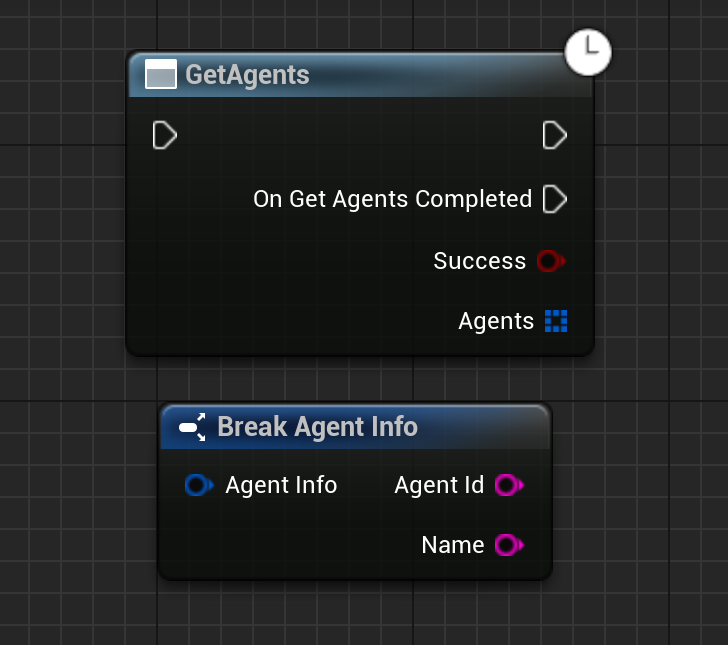
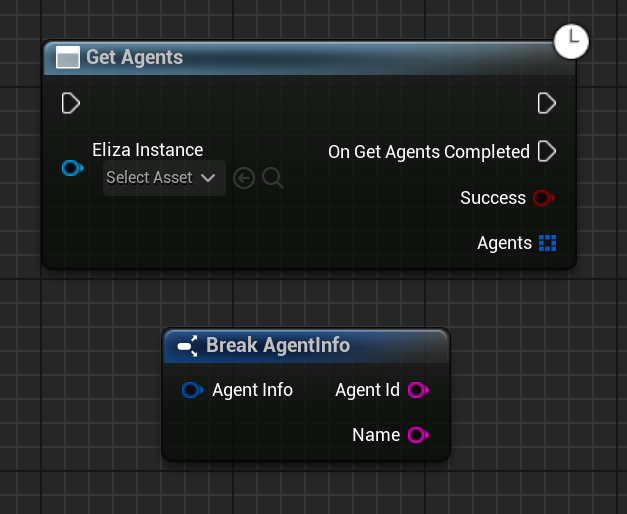
Updated methods to reference Eliza instances

diff --git a/APIs/GetAgentCharacter.md b/APIs/GetAgentCharacter.md
@@ -12,6 +12,7 @@ Given an AgentId, returns details about a the character that agent is representi
 | - | - | - |
 |Type|Name|Description|
 |FString|AgentId|The ID string of the agent to get the character data of.|
+|UElizaInstance\*|ElizaInstance|The Eliza instance to communicate with.|
 
 # Outputs
 
@@ -24,6 +25,6 @@ Given an AgentId, returns details about a the character that agent is representi
 Module: `Eliza`
 include: `#include "GetAgentCharacter.h"`
 
-`UGetAgentCharacter::GetAgentCharacter()` - instantiates this async method.
+`UGetAgentCharacter::GetAgentCharacter(FString AgentId, UElizaInstance* ElizaInstance)` - instantiates this async method.
 `Activate()` - Activates this async method.
 In C++, the outputs of the async function can be acted upon by binding to the event delegate "`OnGetAgentCharacterCompleted`".

diff --git a/APIs/MessageAgent.md b/APIs/MessageAgent.md
@@ -13,6 +13,7 @@ Sends a message to an agent.
 |Type|Name|Description|
 |FString|AgentId|The ID string of the agent to send the message to.|
 |FString|Message|The message to send to the agent.|
+|UElizaInstance\*|ElizaInstance|The Eliza instance to communicate with.|
 
 # Outputs
 
@@ -27,6 +28,6 @@ Sends a message to an agent.
 Module: `Eliza`
 include: `#include "MessageAgent.h"`
 
-`UMessageAgent::MessageAgent()` - instantiates this async method.
+`UMessageAgent::MessageAgent(FString AgentId, FString Message, UElizaInstance* ElizaInstance)` - instantiates this async method.
 `Activate()` - Activates this async method.
 In C++, the outputs of the async function can be acted upon by binding to the event delegate "`OnMessageAgentCompleted`".

diff --git a/APIs/GetAgents.md b/APIs/GetAgents.md
@@ -9,7 +9,9 @@ Returns an array of all the agents running in your Eliza instance.
 
 # Inputs
 
-None.
+| - | - | - |
+|Type|Name|Description|
+|UElizaInstance\*|ElizaInstance|The Eliza instance to communicate with.|
 
 # Outputs
 
@@ -22,6 +24,6 @@ None.
 Module: `Eliza`
 include: `#include "GetAgents.h"`
 
-`UGetAgents::GetAgents()` - instantiates this async method.
+`UGetAgents::GetAgents(UElizaInstance* ElizaInstance)` - instantiates this async method.
 `Activate()` - Activates this async method.
 In C++, the outputs of the async function can be acted upon by binding to the event delegate "`OnGetAgentsCompleted`".
